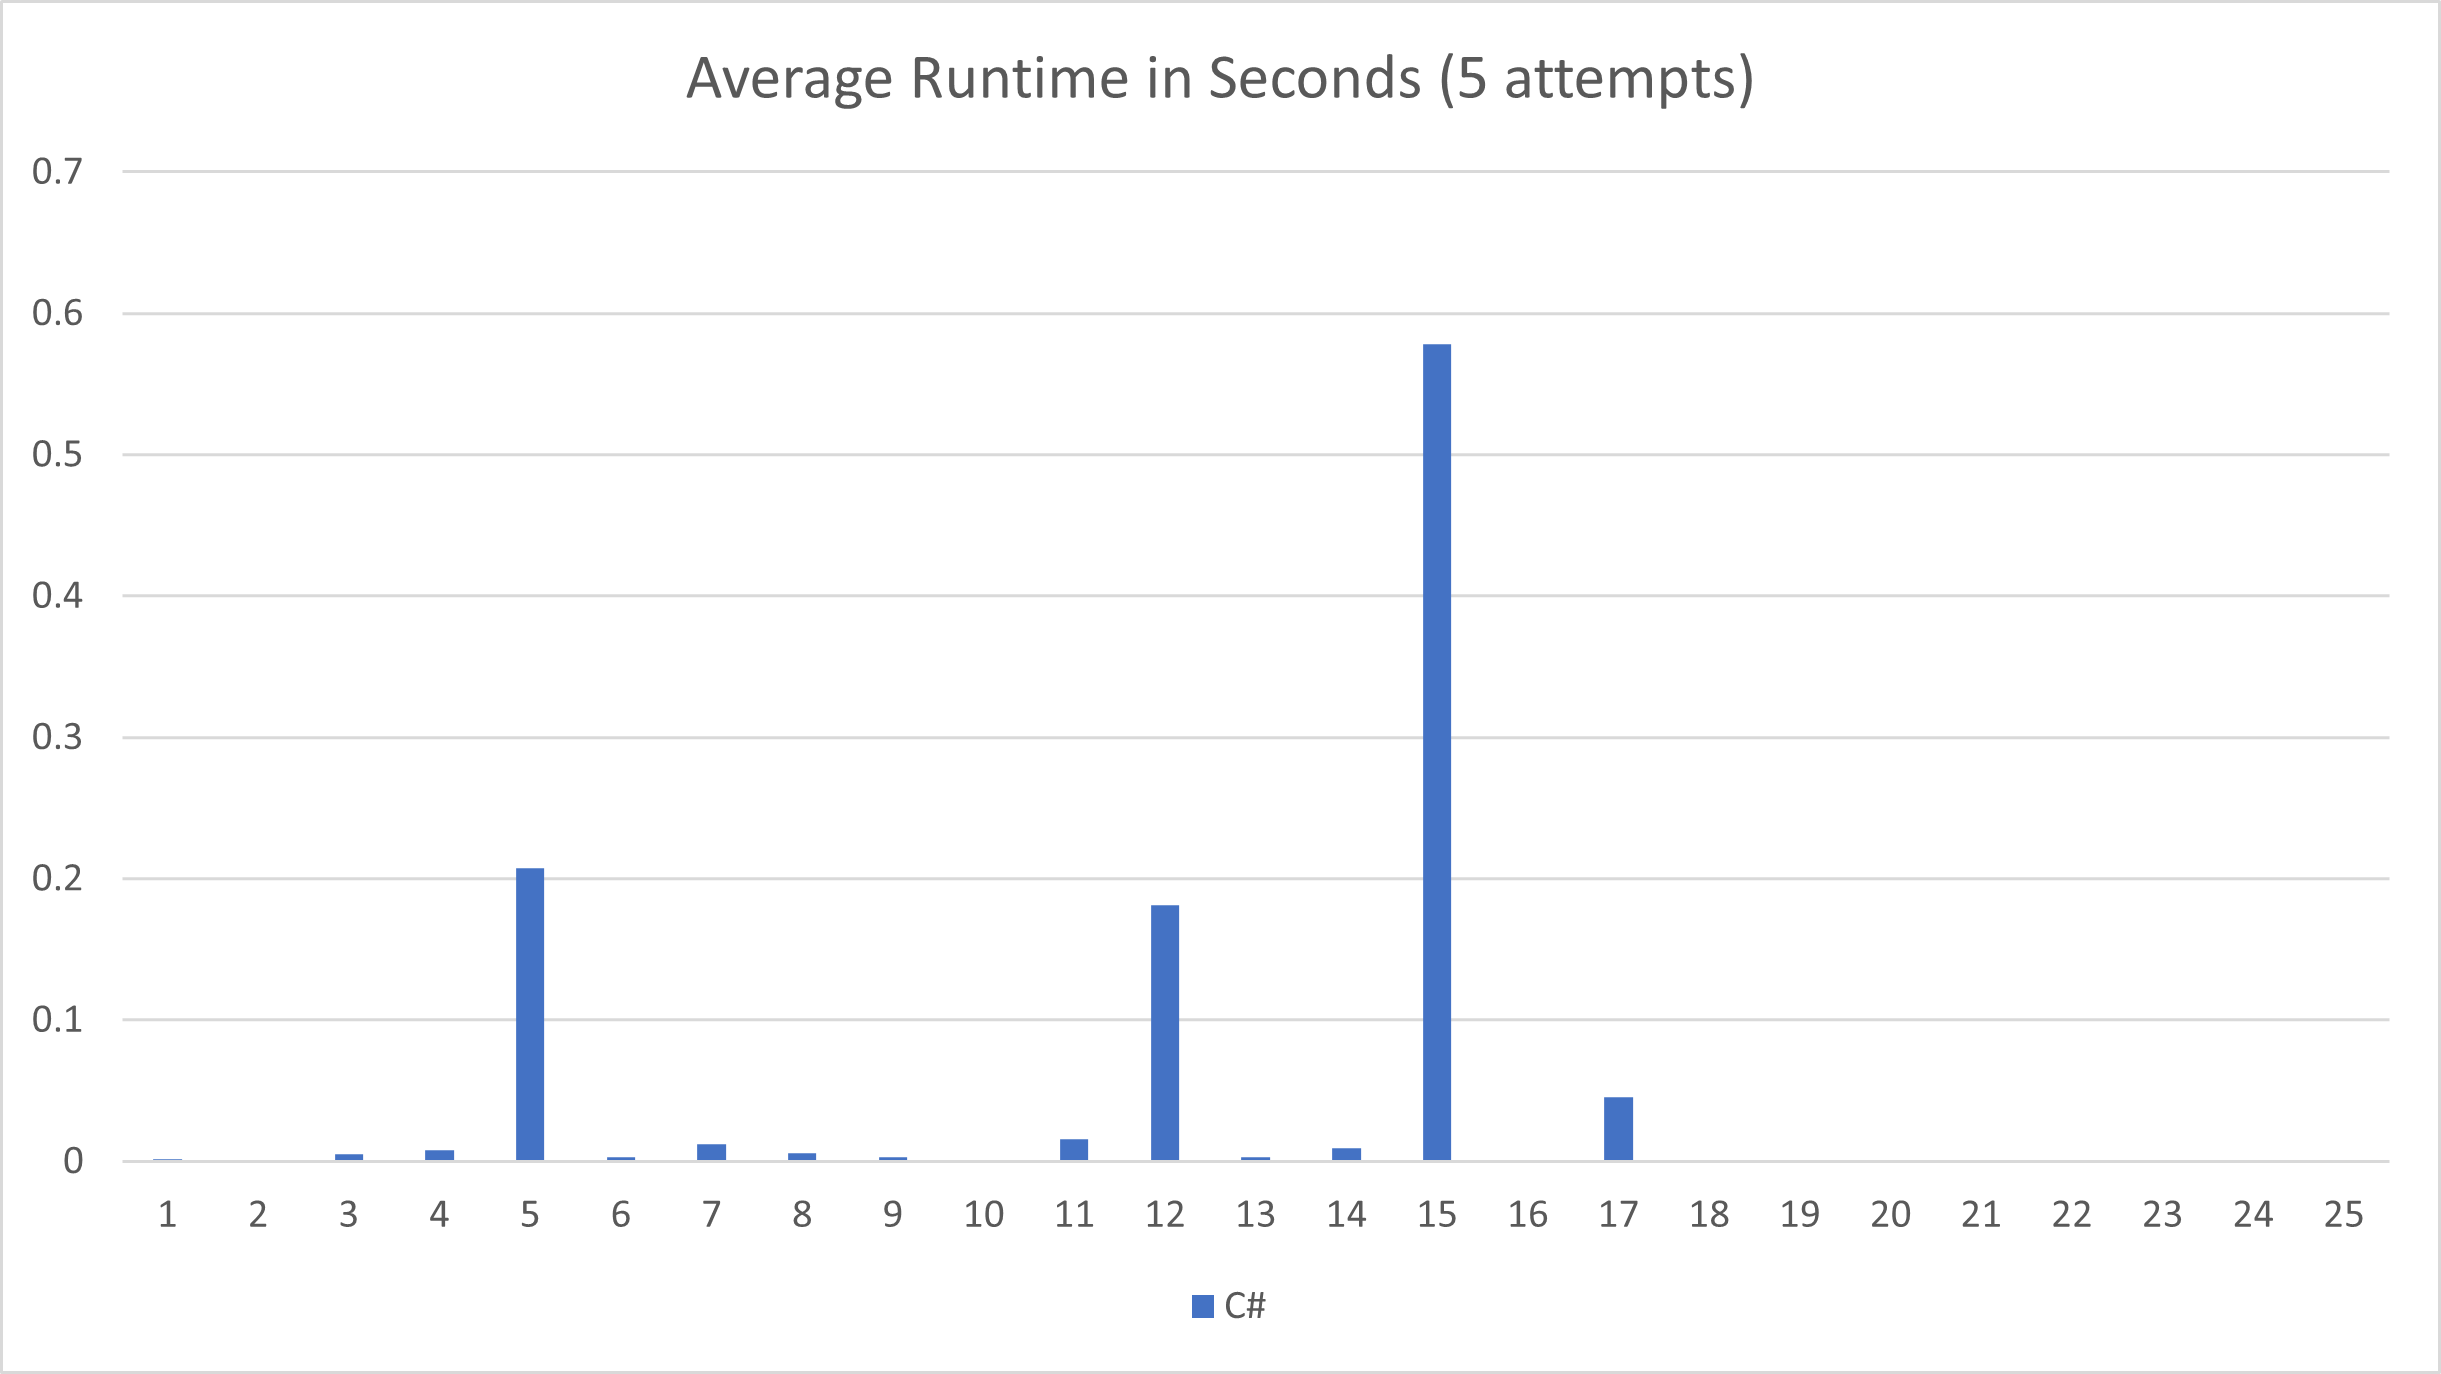
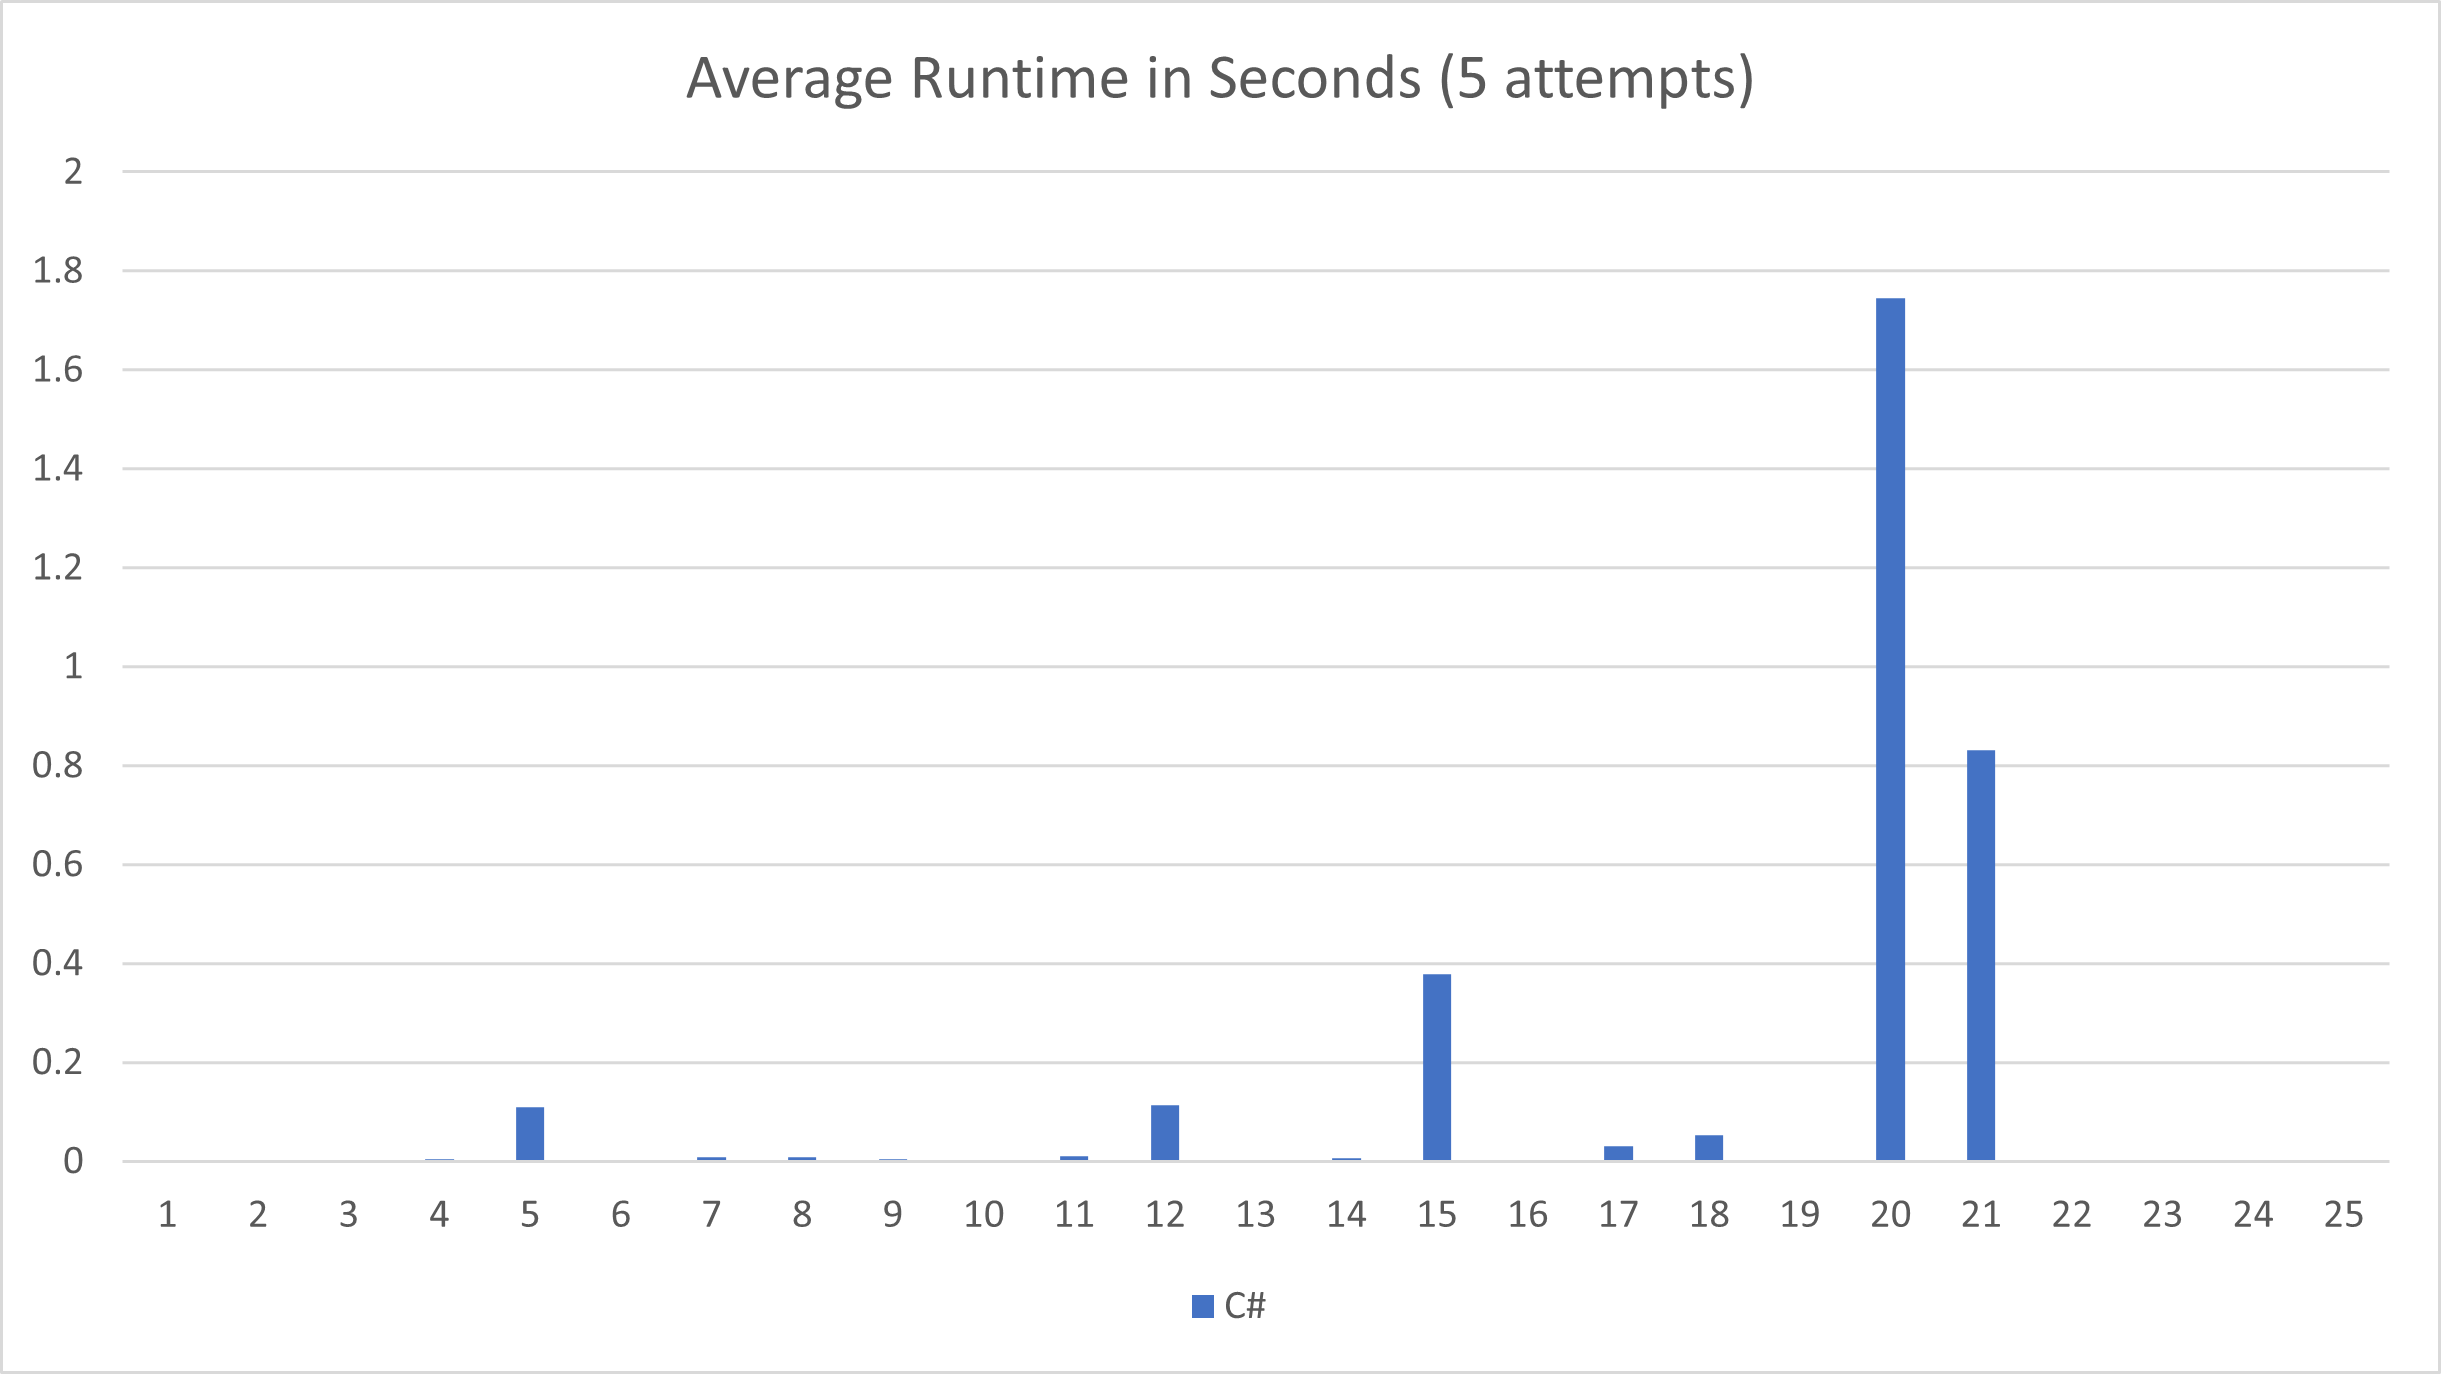
Update outputs after day 21 (still missing 19)

diff --git a/README.md b/README.md
@@ -10,7 +10,7 @@ languages later and will track which solutions I've done, using the chart below.
 
 |      |1|2|3|4|5|6|7|8|9|10|11|12|13|14|15|16|17|18|19|20|21|22|23|24|25|
 |------|-|-|-|-|-|-|-|-|-|--|--|--|--|--|--|--|--|--|--|--|--|--|--|--|--|
-|**C#**|🌟|🌟|🌟|🌟|🌟|🌟|🌟|🌟|🌟|🌟|🌟|🌟|🌟|🌟|🌟|🌟|🌟|☆|☆|☆|☆|☆|☆|☆|☆|
+|**C#**|🌟|🌟|🌟|🌟|🌟|🌟|🌟|🌟|🌟|🌟|🌟|🌟|🌟|🌟|🌟|🌟|🌟|🌟|☆|🌟|🌟|☆|☆|☆|☆|
 
 ⭐ - First star completed\
 🌟 - Both stars completed
